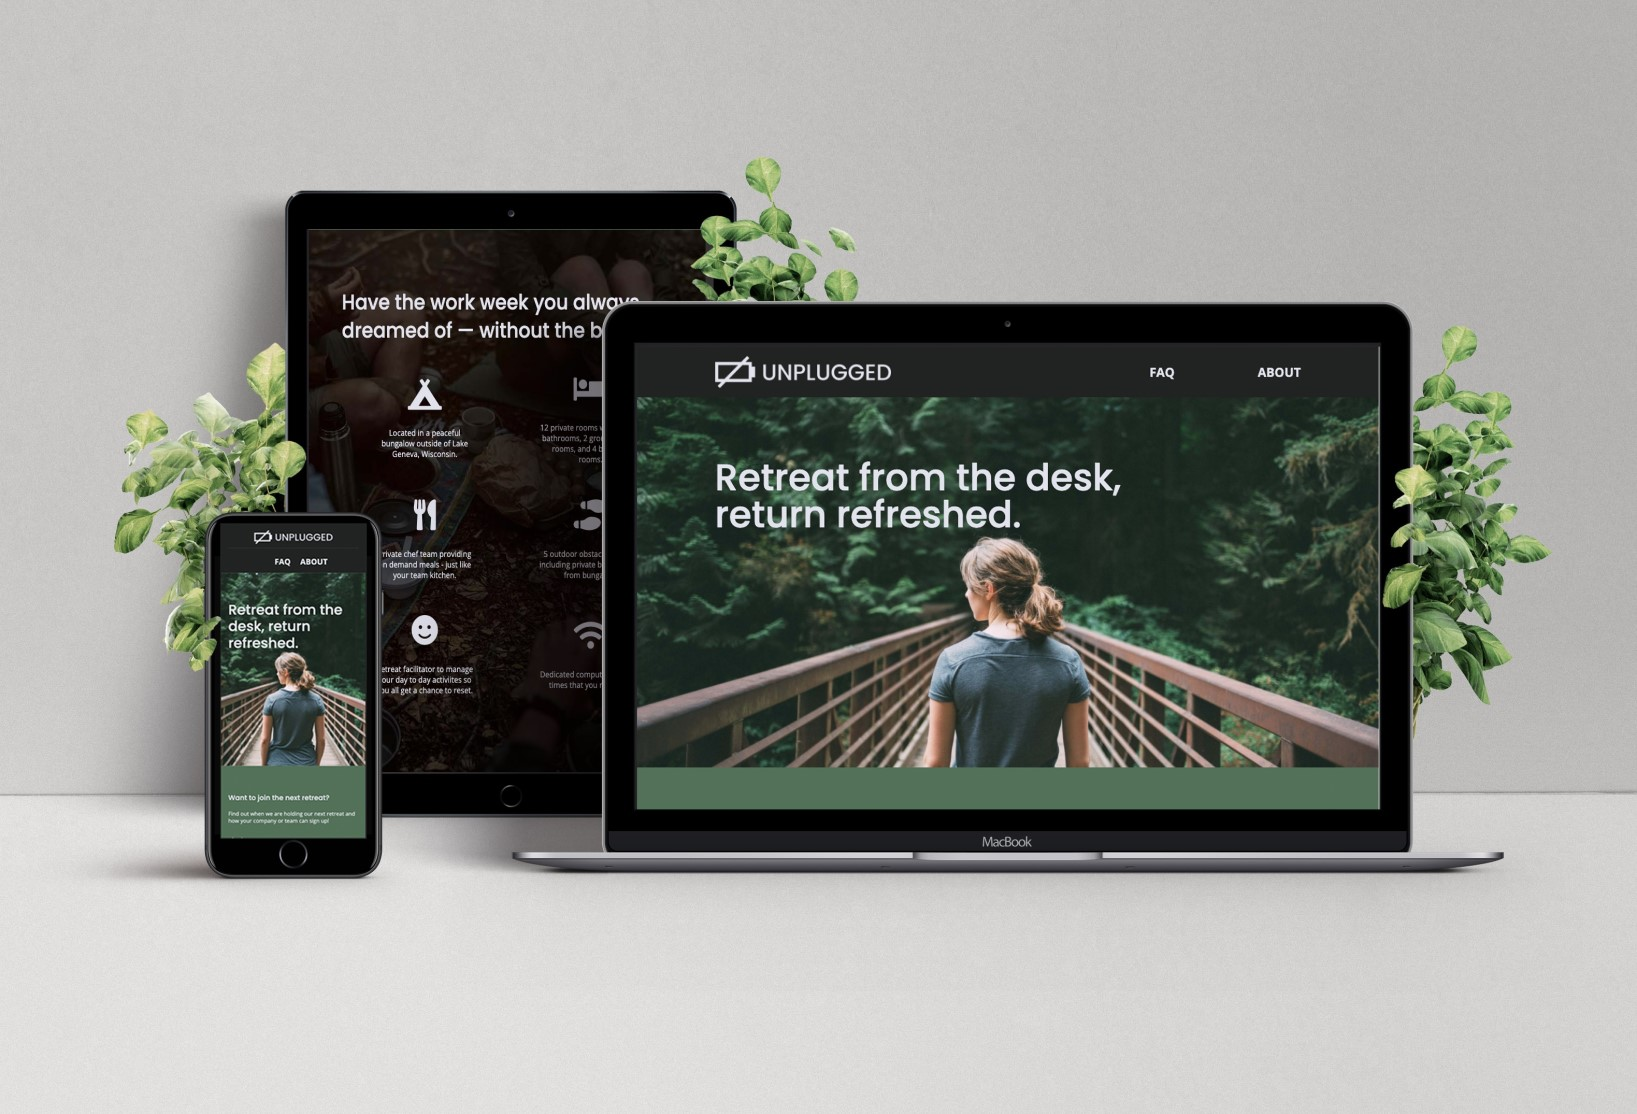
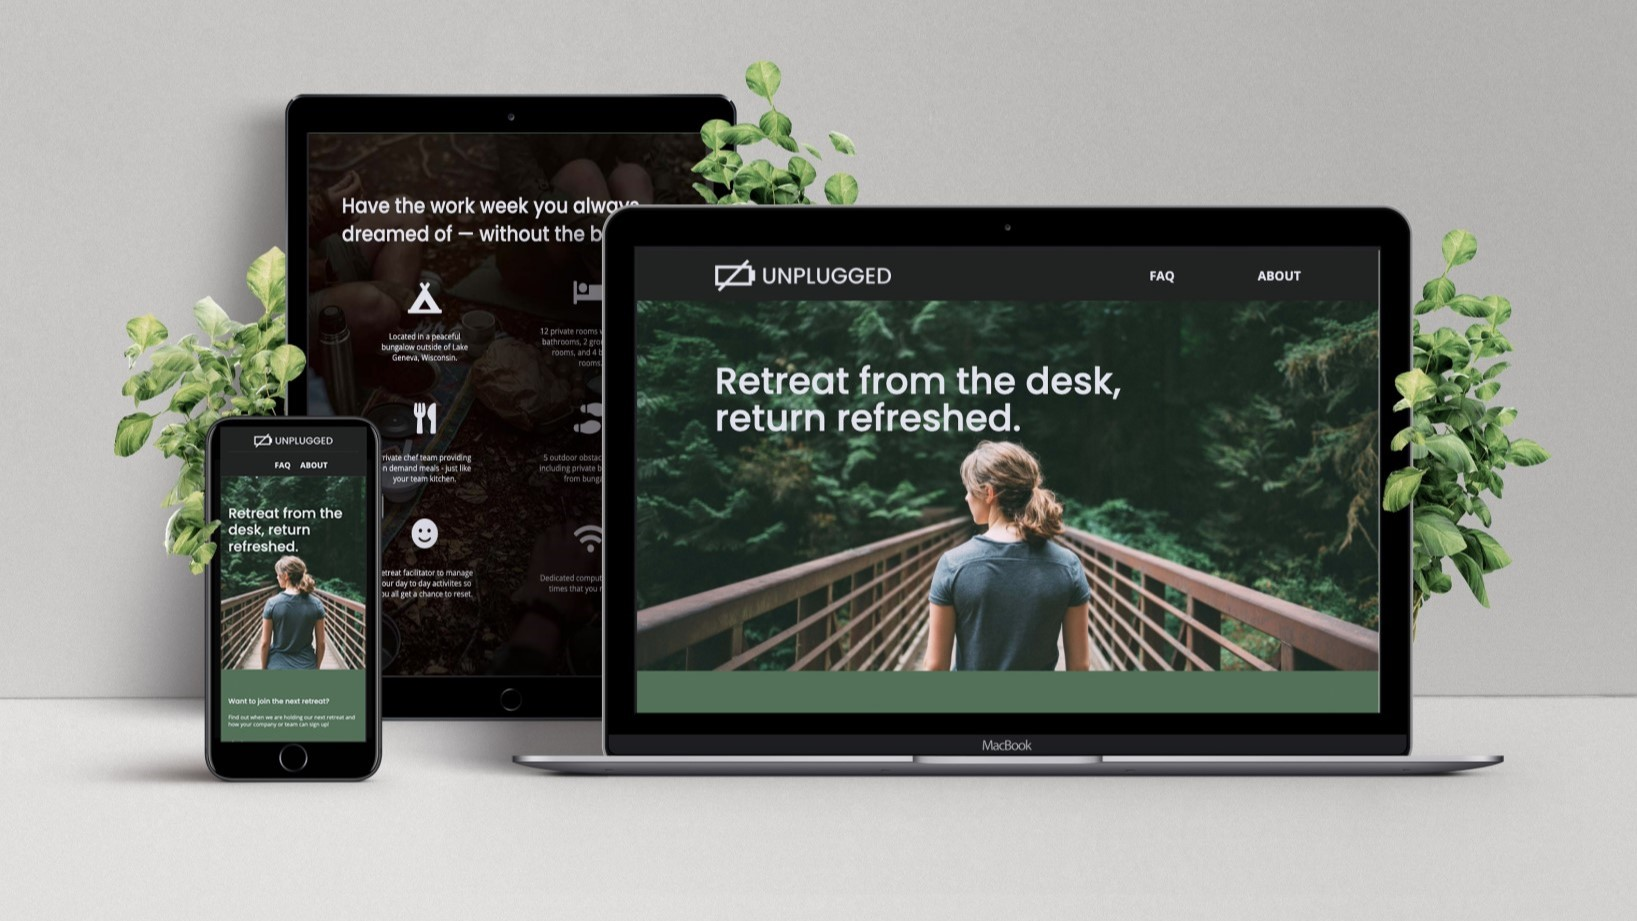
Tablet styles skills and projects section adjusted

diff --git a/css/main.css b/css/main.css
@@ -155,6 +155,7 @@ header {
 
 header .content-wrapper {
   margin: 0;
+  width: 90%;
   display: flex;
   justify-content: center;
   align-items: center;
@@ -255,6 +256,7 @@ footer .social-icons {
 /* -------------------- Mobile Styles -------------------- */
 /* -------------------- ABOUT -------------------- */
 #about {
+  width: 100%;
   display: flex;
   justify-content: center;
   text-align: center;
@@ -262,7 +264,7 @@ footer .social-icons {
 }
 
 #about .content-wrapper {
- width: 80%;
+ width: 85%;
  margin: 80px 0;
 }
 
@@ -307,7 +309,7 @@ footer .social-icons {
 }
 
 #projects .content-wrapper {
-  width: 80%;
+  width: 85%;
   margin: 80px 0 40px 0;
  }
 
@@ -336,12 +338,14 @@ footer .social-icons {
 }
 
 #projects figure {
-  margin: 0 10px;
+  width: 100%;
+  margin: 20px 0 40px 0;
 }
 
 #projects figure img {
-  max-width: 100%;
-  height: auto;
+  width: 100%;
+  margin: 0;
+  padding: 0;
 }
 
 .project-description {
@@ -375,6 +379,7 @@ footer .social-icons {
 
 /* -------------------- SKILLS -------------------- */
 #skills {
+  width: 100%;
   display: flex;
   justify-content: center;
   text-align: center;
@@ -382,7 +387,7 @@ footer .social-icons {
 }
 
 #skills .content-wrapper {
-  width: 80%;
+  width: 85%;
   margin: 80px 0 60px 0;
 }
 
@@ -394,6 +399,7 @@ footer .social-icons {
 #skills h3 {
   margin: 40px 0 20px 0;
 }
+
 .developer-wrapperv{
   margin: 0 0 20px 0;
 }
@@ -445,7 +451,7 @@ p {
  
  /* Header */
 header .content-wrapper {
-  width: 80%;
+  width: 90%;
 }
 
 header .main-title {
@@ -465,6 +471,7 @@ header h1 {
 
 #about .content-wrapper, #projects .content-wrapper, #skills .content-wrapper {
   margin: 120px 0;
+  width: 90%;
 }
 
 #about figure {
@@ -489,38 +496,67 @@ header h1 {
 }
 
 /* -------------------- PROJECTS -------------------- */
+.projects-wrapper {
+  justify-content: space-around;
+}
+
+.projects-header {
+  margin: 0 0 80px 0;
+}
+
 .project-part {
   width: 45%;
-  margin: 80px 5px;
+  align-items: center;
 }
 
-/* --- How to make images the same size? --- */
 #projects figure {
+  margin: 20px 0 40px 0;
   width: 100%;
-  height: 100%;
-}
+} 
 
-#projects figure a {
-  height: 100%;
-  width: auto;
+.project-description {
+  margin: 0 0 30px 0;
 }
 
 /* -------------------- SKILLS -------------------- */
+#skills h3 {
+  margin: 40px 0 30px 0;
+}
 
+.developer-wrapper, .tech-wrapper {
+  display: flex;
+  justify-content: space-evenly;
+  width: 100%;
+  flex-flow: row wrap;
+  text-transform: uppercase;
+  margin: 0;
+}
 
+.developer-wrapper p, .tech-wrapper p {
+  padding: 15px 0;
+}
 
+.skill, .tool {
+  width: 45%;
+}
+
+ /* Footer */
+
+footer .content-wrapper {
+  margin: 90px 0;
+  width: 90%;
+}
+
+footer .contact-header {
+  margin: 0 0 80px 0;
+}
+
+footer h2 {
+  margin: 0;
 }
 
 
-
-
-
-
-
-
-
-
-
+}
 
 
 /* -------------------- Desktop Styles -------------------- */

diff --git a/index.html b/index.html
@@ -138,9 +138,8 @@
           <p class="skill">API's</p>
           <p class="skill">Version Control</p>
         </div>
-
-      <div class="tech-wrapper">
         <h3>Tech Stack</h3>
+      <div class="tech-wrapper">
           <p class="tool">Chrome DevTools</p>
           <p class="tool">Visual Studio Code</p>
           <p class="tool">Git</p>
